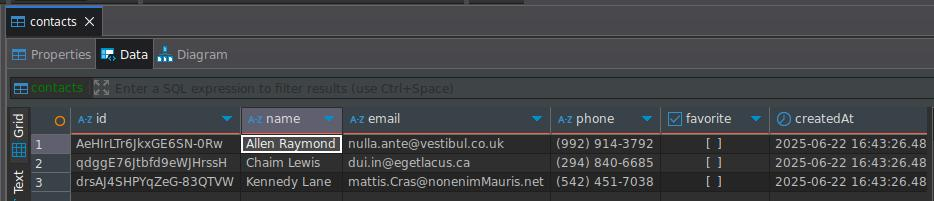
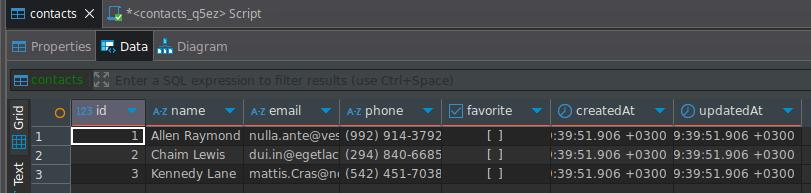
Reworked the contact's id to DB serial

Changed region(s): [[0.0, 0.0, 1.0, 1.0], [0.0, 0.9948, 0.0308, 1.0]]

diff --git a/routes/contactsRouter.js b/routes/contactsRouter.js
@@ -6,26 +6,28 @@ import {
   createContact,
   updateContact,
 } from "../controllers/contactsControllers.js";
+import validateParams from "../helpers/validateParams.js";
 import validateBody from "../helpers/validateBody.js";
 import errorCatcher from "../helpers/errorCatcher.js";
 import {
   createContactSchema,
   updateContactSchema,
   updateStatusContactSchema,
+  contactIdParamSchema
 } from "../schemas/contactsSchemas.js";
 
 const contactsRouter = express.Router();
 
 contactsRouter.get("/", errorCatcher(getAllContacts));
 
-contactsRouter.get("/:id", errorCatcher(getOneContact));
+contactsRouter.get("/:id", validateParams(contactIdParamSchema), errorCatcher(getOneContact));
 
-contactsRouter.delete("/:id", errorCatcher(deleteContact));
+contactsRouter.delete("/:id", validateParams(contactIdParamSchema), errorCatcher(deleteContact));
 
 contactsRouter.post("/", validateBody(createContactSchema), errorCatcher(createContact));
 
-contactsRouter.put("/:id", validateBody(updateContactSchema), errorCatcher(updateContact));
+contactsRouter.put("/:id", validateParams(contactIdParamSchema), validateBody(updateContactSchema), errorCatcher(updateContact));
 
-contactsRouter.patch("/:id/favorite", validateBody(updateStatusContactSchema), errorCatcher(updateContact));
+contactsRouter.patch("/:id/favorite", validateParams(contactIdParamSchema), validateBody(updateStatusContactSchema), errorCatcher(updateContact));
 
 export default contactsRouter;

diff --git a/services/contactsServices.js b/services/contactsServices.js
@@ -1,5 +1,4 @@
-import Contact from "../db/contacts,js";
-import { randomUUID } from "crypto";
+import Contact from "../db/contacts.js";
 
 const listContacts = async () => Contact.findAll();
 
@@ -13,9 +12,7 @@ async function removeContact(contactId) {
   return contact;
 }
 
-const addContact = async (data) => Contact.create({
-  id: randomUUID().replaceAll("-", "").substring(0, 21), ...data
-});
+const addContact = async (data) => Contact.create(data);
 
 async function updateContactById(contactId, newData) {
   const contact = await getContactById(contactId);

diff --git a/db/contacts.js b/db/contacts.js
@@ -3,15 +3,15 @@ import { DataTypes } from "sequelize";
 
 const Contact = db_conn.define("contacts", {
   name: {
-    type: DataTypes.STRING,
+    type: DataTypes.STRING(128),
     allowNull: false,
   },
   email: {
-    type: DataTypes.STRING,
+    type: DataTypes.STRING(255),
     allowNull: false,
   },
   phone: {
-    type: DataTypes.STRING,
+    type: DataTypes.STRING(24),
     allowNull: false,
   },
   favorite: {

diff --git a/schemas/contactsSchemas.js b/schemas/contactsSchemas.js
@@ -41,3 +41,11 @@ export const updateStatusContactSchema = Joi.object({
       "any.required": "Favorite is required",
     }),
 });
+
+export const contactIdParamSchema = Joi.object({
+  id: Joi.number().integer().min(1).required().messages({
+    "number.base": "Contact id must be a number",
+    "number.min": "Contact id must be a positive number",
+    "any.required": "Contact id is required",
+  }),
+});

diff --git a/helpers/validateParams.js b/helpers/validateParams.js
@@ -1,0 +1,15 @@
+import HttpError from "./HttpError.js";
+
+const validateParams = (schema) => {
+  const func = (req, _, next) => {
+    const { error } = schema.validate(req.params);
+    if (error) {
+      next(HttpError(400, error.message));
+    }
+    next();
+  };
+
+  return func;
+};
+
+export default validateParams;

diff --git a/README.md b/README.md
@@ -6,10 +6,10 @@
 ## Підключеня до БД та створеня таблиці 
 ```sql
 CREATE TABLE public.contacts (
-	"id" varchar NOT NULL,
-	"name" varchar NOT NULL,
-	email varchar NOT NULL,
-	phone varchar NOT NULL,
+	"id" serial NOT NULL,
+	"name" varchar(128) NOT NULL,
+	email varchar(255) NOT NULL,
+	phone varchar(24) NOT NULL,
 	favorite boolean DEFAULT false,
   "createdAt" TIMESTAMP WITH TIME ZONE NOT NULL, 
   "updatedAt" TIMESTAMP WITH TIME ZONE NOT NULL,
@@ -18,10 +18,12 @@ CREATE TABLE public.contacts (
 ```
 ### наповнення таблиці первинними значеннями
 ```sql
-INSERT INTO public.contacts VALUES
- ('AeHIrLTr6JkxGE6SN-0Rw', 'Allen Raymond', 'nulla.ante@vestibul.co.uk', '(992) 914-3792', false, now(), now()),
- ('qdggE76Jtbfd9eWJHrssH', 'Chaim Lewis', 'dui.in@egetlacus.ca', '(294) 840-6685', false, now(), now()),
- ('drsAJ4SHPYqZeG-83QTVW', 'Kennedy Lane', 'mattis.Cras@nonenimMauris.net', '(542) 451-7038', false, now(), now());
+INSERT INTO public.contacts 
+ ("name", email, phone, favorite, "createdAt", "updatedAt")
+VALUES
+ ('Allen Raymond', 'nulla.ante@vestibul.co.uk', '(992) 914-3792', false, now(), now()),
+ ('Chaim Lewis', 'dui.in@egetlacus.ca', '(294) 840-6685', false, now(), now()),
+ ('Kennedy Lane', 'mattis.Cras@nonenimMauris.net', '(542) 451-7038', false, now(), now());
 ```
 
 ![Table contacts in DB](imgs/01.jpg)
